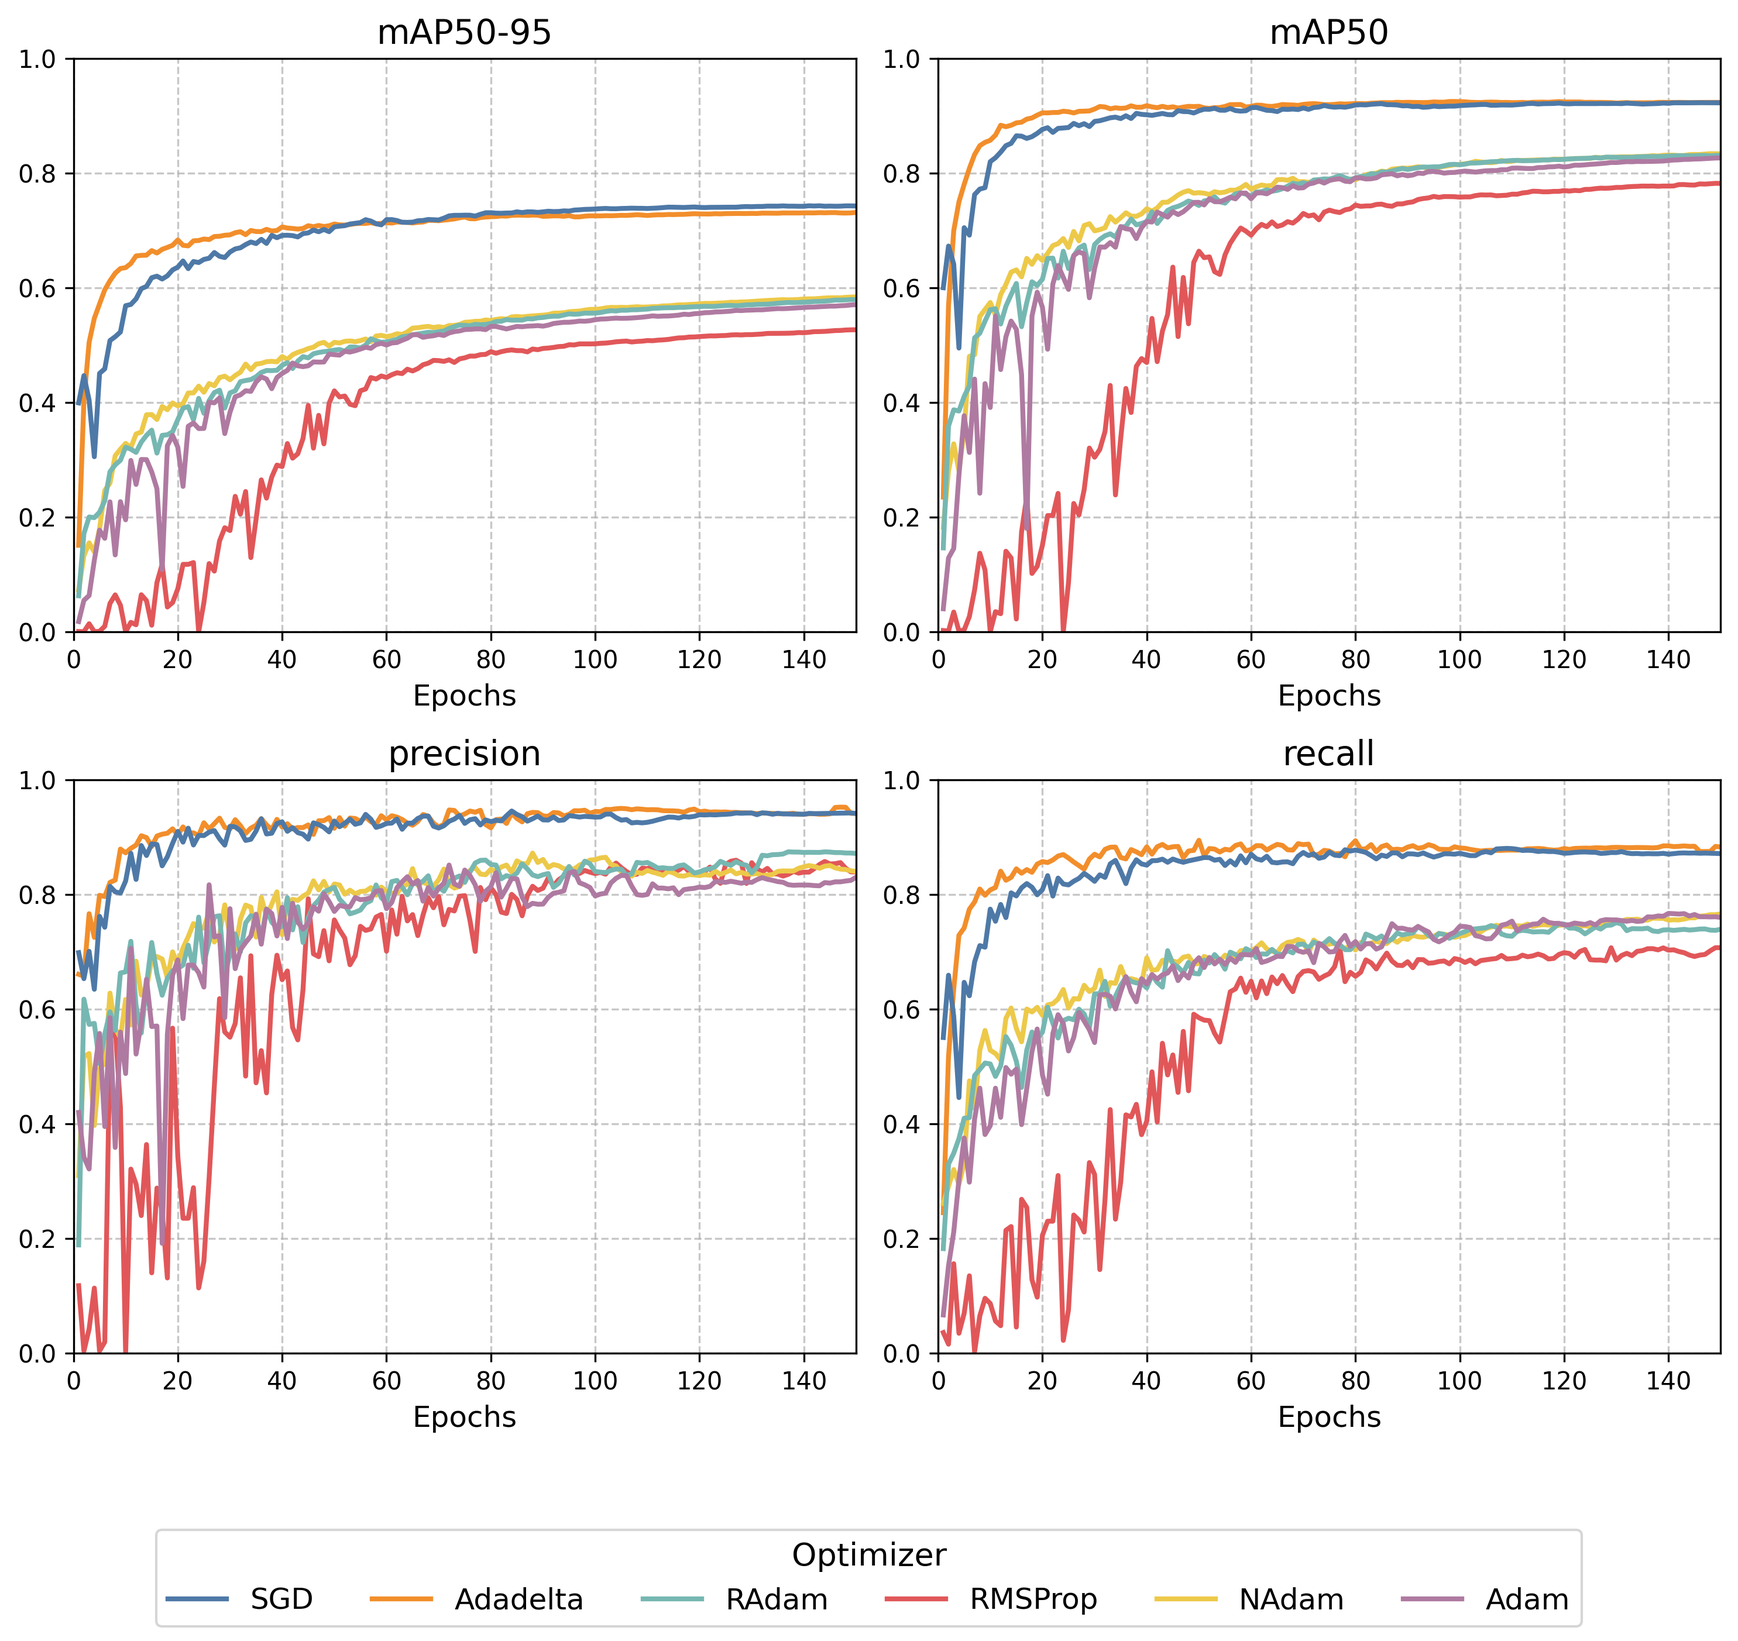
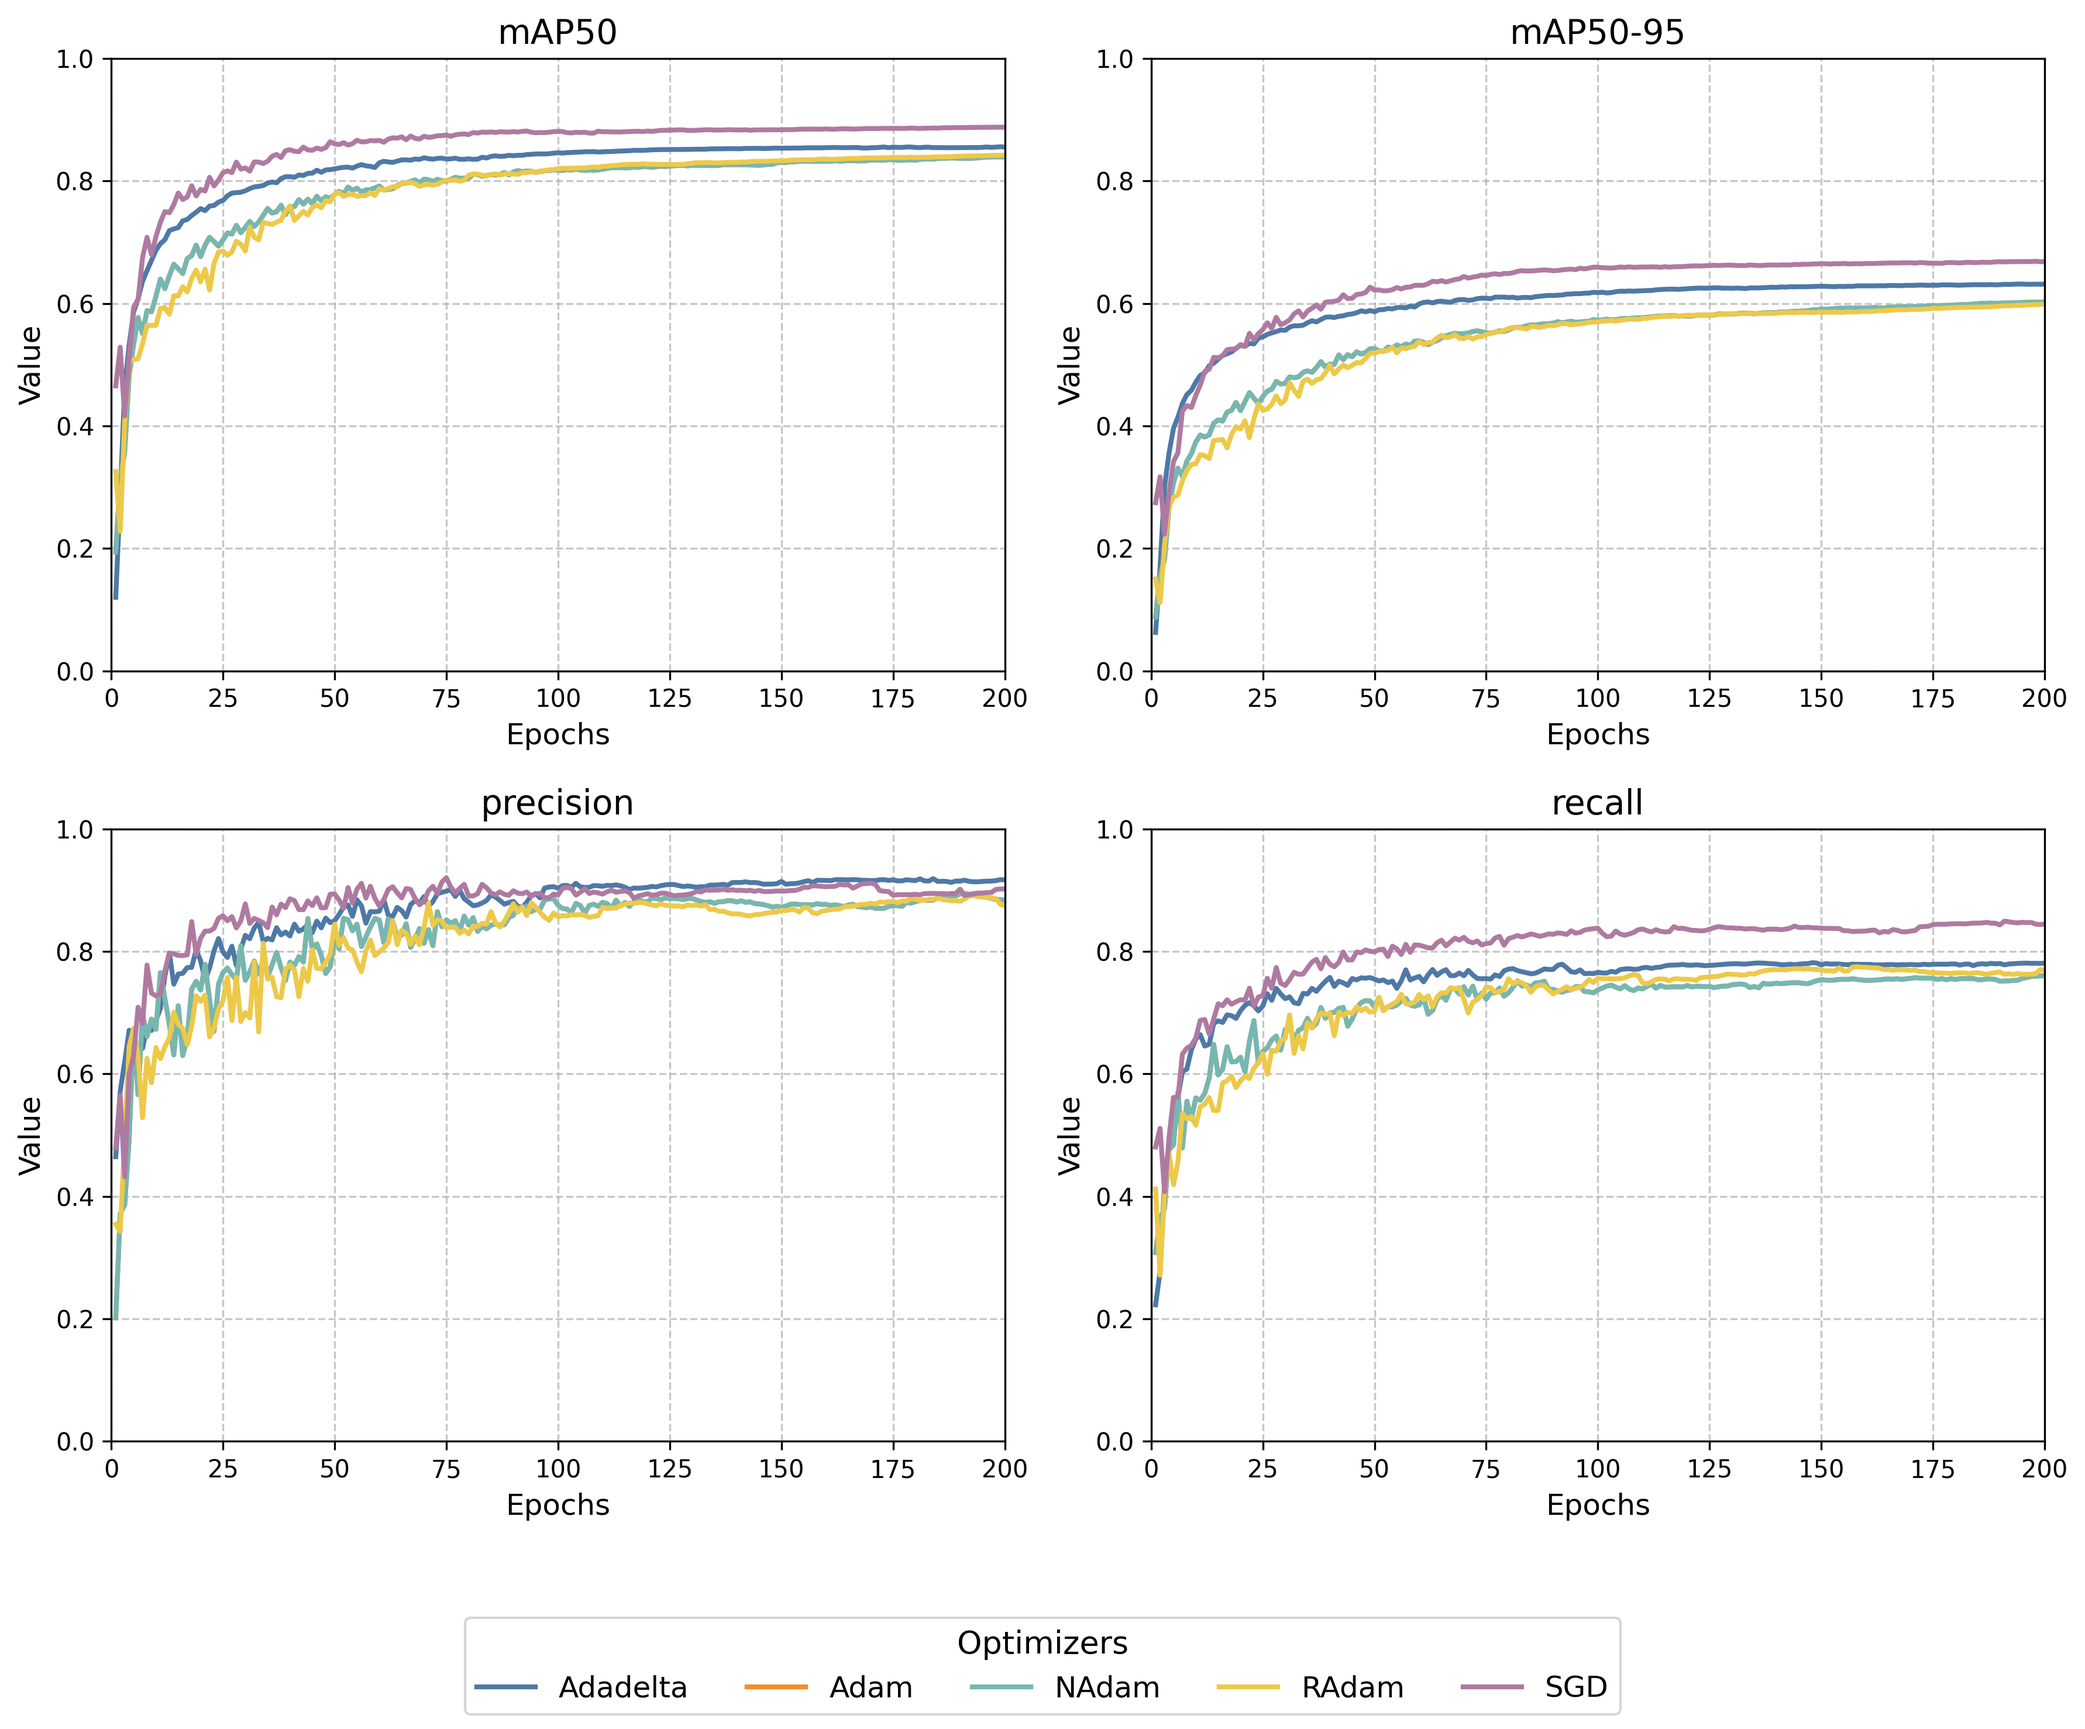
Updates readme and upload new file

diff --git a/README.md b/README.md
@@ -2,7 +2,17 @@
 
 <img alt="license" src="https://img.shields.io/github/license/mashape/apistatus.svg"/>
 
-This repository contains the results of a comparative study of different optimizing algorithms used during the training phase with YOLO in the USV context using performance metrics. Additionally, it compares YOLOv8x with its most recent equivalent version at the time, YOLO11x; and finally, it compares these same algorithms for these two versions but applying the convergence-based early stopping technique.
+This repository presents a comparative analysis of optimizers (**SGD, Adam, NAdam, RAdam, and Adadelta**) applied to **YOLOv8n** and **YOLO12n** architectures in the context of object detection in maritime systems with limited resources, such as **Unmanned Surface Vehicles (USVs)**.  
+
+Key metrics were evaluated: **mAP, accuracy, recall, inference time, and energy consumption**, using heterogeneous GPUs (**NVIDIA Tesla V100 and A30**).  
+
+Key Findings:    
+- **Adadelta and SGD** achieved the best balance between accuracy (**≈90–92%**), stability, and energy efficiency.  
+- The **A30 GPU** showed **40% more training efficiency** compared to the Tesla V100.  
+- The **Maritime Operational Efficiency Metric (MOEM)** is introduced, which unifies accuracy, speed, and energy consumption for a comprehensive evaluation.  
+
+These results underscore the importance of optimizer selection and hyperparameter configuration in achieving a balance between **accuracy, stability, and efficiency** in **real-time** maritime applications across the **Cloud-to-Edge continuum**.  
+
 
 For this study we have followed these steps:
 
@@ -91,26 +101,40 @@ $ yolo detect train data=/path/data.yaml model=yolov8n.pt epochs=150 imgsz=640 p
 </table>
 
 ## 3. Evaluation
-### Performance metrics of each optimizer algorithms based on YOLOv8x
+### Performance metrics of each optimizer algorithms based on YOLOv8n
 
 <img src="table/Alloptimizer.png" alt="bench 1" width="100%">
 
-### Comparison between different optimizer algorithms YOLOv8x and YOLO11x models
+### Comparison between different optimizer algorithms YOLOv8n and YOLO12n models
 
 <img src="table/twomodel.png" alt="bench 1" width="100%">
 
-### Comparison between optimizers on three GPUs based on early stopping with convergence
+### GPU comparison using early stopping: Statistical Analysis
 
-<img src="table/twogpu.png" alt="bench 1" width="100%">  
+#### Summary of statistical results: main effects and relative efficiency
 
-### Computational resource usage with and without Early Stopping  
+<img src="table/summary.png" alt="bench 1" width="100%">
 
-<img src="table/TrainingTimeByGPU.png" alt="bench 1" width="100%">
+#### Descriptive statistics by GPU and optimizer (mean ± standard deviation, n=12)  
+
+<img src="table/summarydescriptive.png" alt="bench 1" width="100%">
+
+<img src="table/analysis.png" alt="bench 1" width="100%">
+
+### From Cloud to Edge: A Continuum of Efficiency
+
+#### Comprehensive analysis of inference time, energy consumption, and efficiency in YOLO models trained with different optimizers on NVIDIA architectures
+
+<img src="table/efficiency_Nvidia.png" alt="bench 1" width="100%">
 
 ## 4. Publications
 
-In process "A Comparative Study of Optimizer Algorithms for YOLO-Based Object Detection in USVs"
+In process "A Comparative Study of Optimizer Algorithms for YOLO-Based Object Detection in USVs: Statistical Analysis and Mathematical Framework"
 
 ## 5. Acknowledgements
 
 J.L.M. thanks the National Secretariat of Science, Technology and Innovation (SENACYT) of Panama for financial support during the completion of his PhD.
+
+## 6. Funding
+
+This paper has been partially funded by the EU (FEDER), the Spanish MINECO under grants PID2021-126576NB-I00 and PID2024-158311NB-I00 funded by MCIN/AEI/10.13039/501100011033 and by European Union ``ERDF A way of making Europe'' and the NextGenerationEU/PRT.
